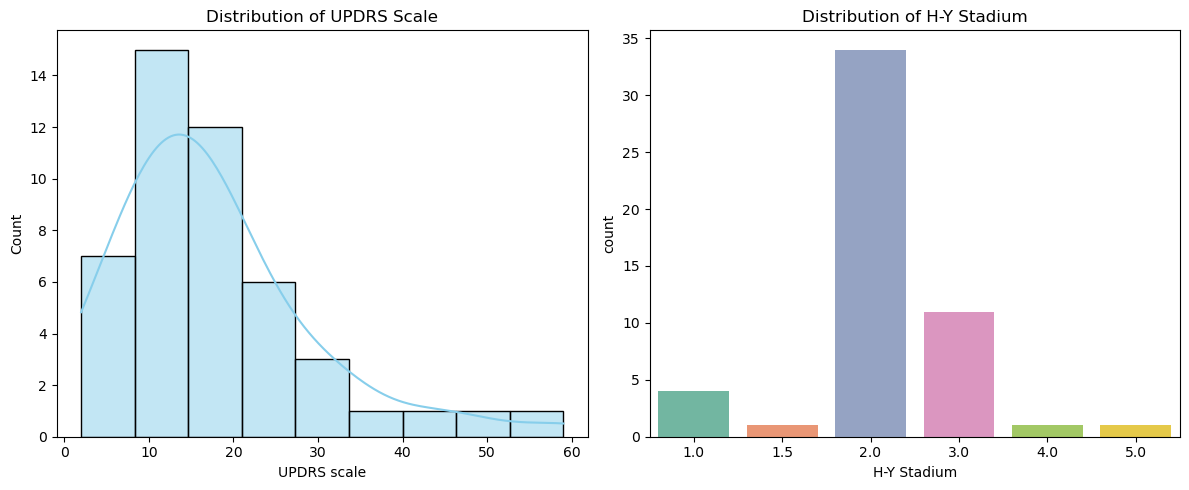
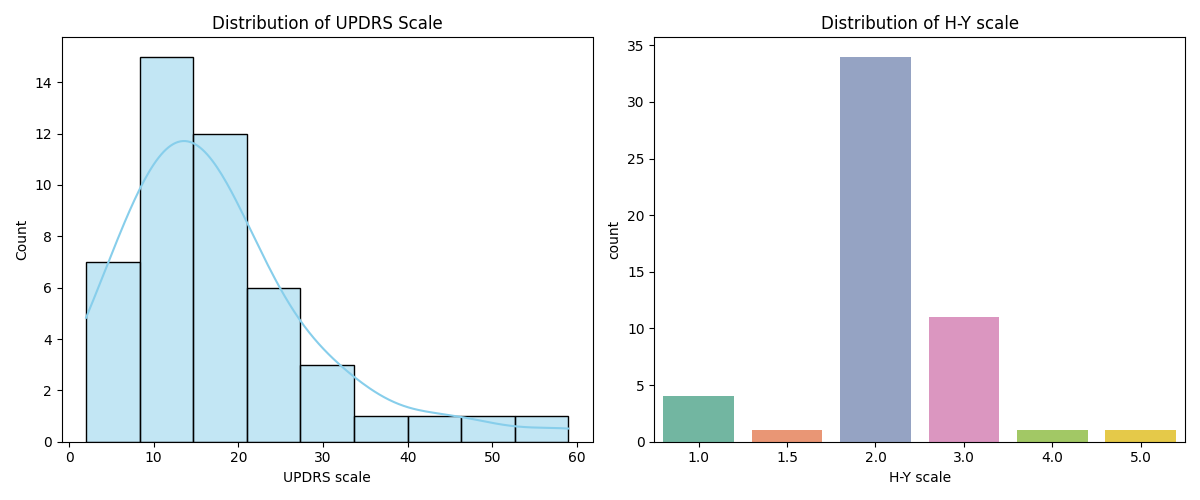
text transcription addedf or tdu

diff --git a/general_statistics.py b/general_statistics.py
@@ -6,8 +6,8 @@ def load_data():
     """
     Load the dataset from the CSV file.
     """
-    df_hc = pd.read_csv("data/data_hc.csv")
-    df_pd = pd.read_csv("data/data_pd.csv")
+    df_hc = pd.read_csv("data/metadata/data_hc.csv")
+    df_pd = pd.read_csv("data/metadata/data_pd.csv")
     return df_hc, df_pd
 
 
@@ -90,12 +90,53 @@ def general_statistic():
     plt.tight_layout()
     plt.show()
 
+    # rename hy stadium for hc scale
+    df_hc.rename(columns={"H-Y Stadium": "H-Y scale"}, inplace=True)
+    df_pd.rename(columns={"H-Y Stadium": "H-Y scale"}, inplace=True)
+
+    # Plotting the distribution of UPDRS scale
+    plt.figure(figsize=(12, 5))
+    plt.subplot(1, 2, 1)
+    sns.histplot(df_pd.groupby("ID").first()["UPDRS scale"], kde=True, color="skyblue")
+    plt.title("Distribution of UPDRS Scale")
+
+    # Plotting the distribution of H-Y stadium
+    plt.subplot(1, 2, 2)
+    sns.countplot(x="H-Y scale", data=df_pd.groupby("ID").first(), palette="Set2")
+    plt.title("Distribution of H-Y scale")
+
+    plt.tight_layout()
+    # saveit
+    plt.savefig("updrs_hy.png")
+    plt.show()
+
+    # Boxplot for UPDRS scale and H-Y stadium
+    plt.figure(figsize=(12, 5))
+    plt.subplot(1, 2, 1)
+    sns.boxplot(y=df_pd.groupby("ID").first()["UPDRS scale"], color="lightblue")
+    plt.title("Box Plot of UPDRS Scale")
+
+    plt.subplot(1, 2, 2)
+    sns.boxplot(y=df_pd.groupby("ID").first()["H-Y scale"], color="lightgreen")
+    plt.title("Box Plot of H-Y Scale")
+
+    plt.tight_layout()
+    plt.show()
+
+    # Descriptive Statistics
+    print(
+        "Descriptive Statistics for UPDRS Scale:\n",
+        df_pd.groupby("ID").first()["UPDRS scale"].describe(),
+    )
+    print(
+        "\nDescriptive Statistics for H-Y Stadium:\n",
+        df_pd.groupby("ID").first()["H-Y scale"].value_counts().sort_index(),
+    )
 
     # Number of columsn in the dataset
     print("=============== Number of columns ===============")
     print(f"Number of columns in the healthy dataset: {len(df_hc.columns)}")
     print(f"Number of columns in the patient dataset: {len(df_pd.columns)}")
-    
 
 
 def main():

diff --git a/match_text.py b/match_text.py
@@ -1,0 +1,52 @@
+import pandas
+import os
+import io
+import numpy as np
+
+
+# Read the text transcriptions
+path_hc = "./data/textHC.dat"
+path_pd = "./data/textPD.dat"
+
+
+# Get all audio files paths
+path_audio = "./data/audios"
+
+# read transcriptions (they have accents, so we need to use latin1 encoding)
+with open(path_hc, "r", encoding="latin1") as f:
+    text_hc = f.readlines()
+
+# For each line, get the name of the file
+filenames = [x.split(" ")[0] for x in text_hc]
+# Reorder the filenames, they are currently NEHCXXXX_text., their corresponding audios are named HC_text_XXXX.wav
+text_names = [
+    x.split("0")[0][2:4] + "_" + x.split("_")[1] + "_" + x.split("C")[1][:4] + ".txt"
+    for x in filenames
+]
+
+real_transcription = [x.split("-")[1][1:-2] for x in text_hc]
+
+# Now, save in "data/transcriptions" the transcriptions
+for i in range(len(text_names)):
+    with open(os.path.join("data/transcriptions", text_names[i]), "w") as f:
+        f.write(real_transcription[i])
+
+
+# Now, the same but for PD
+with open(path_pd, "r", encoding="latin1") as f:
+    text_pd = f.readlines()
+
+# For each line, get the name of the file
+filenames = [x.split(" ")[0] for x in text_pd]
+# Reorder the filenames, they are currently NEHCXXXX_text., their corresponding audios are named HC_text_XXXX.wav
+text_names = [
+    x.split("0")[0][2:4] + "_" + x.split("_")[1] + "_" + x.split("D")[1][:4] + ".txt"
+    for x in filenames
+]
+
+real_transcription = [x.split("-")[1][1:-2] for x in text_pd]
+
+# Now, save in "data/transcriptions" the transcriptions
+for i in range(len(text_names)):
+    with open(os.path.join("data/transcriptions", text_names[i]), "w") as f:
+        f.write(real_transcription[i])
